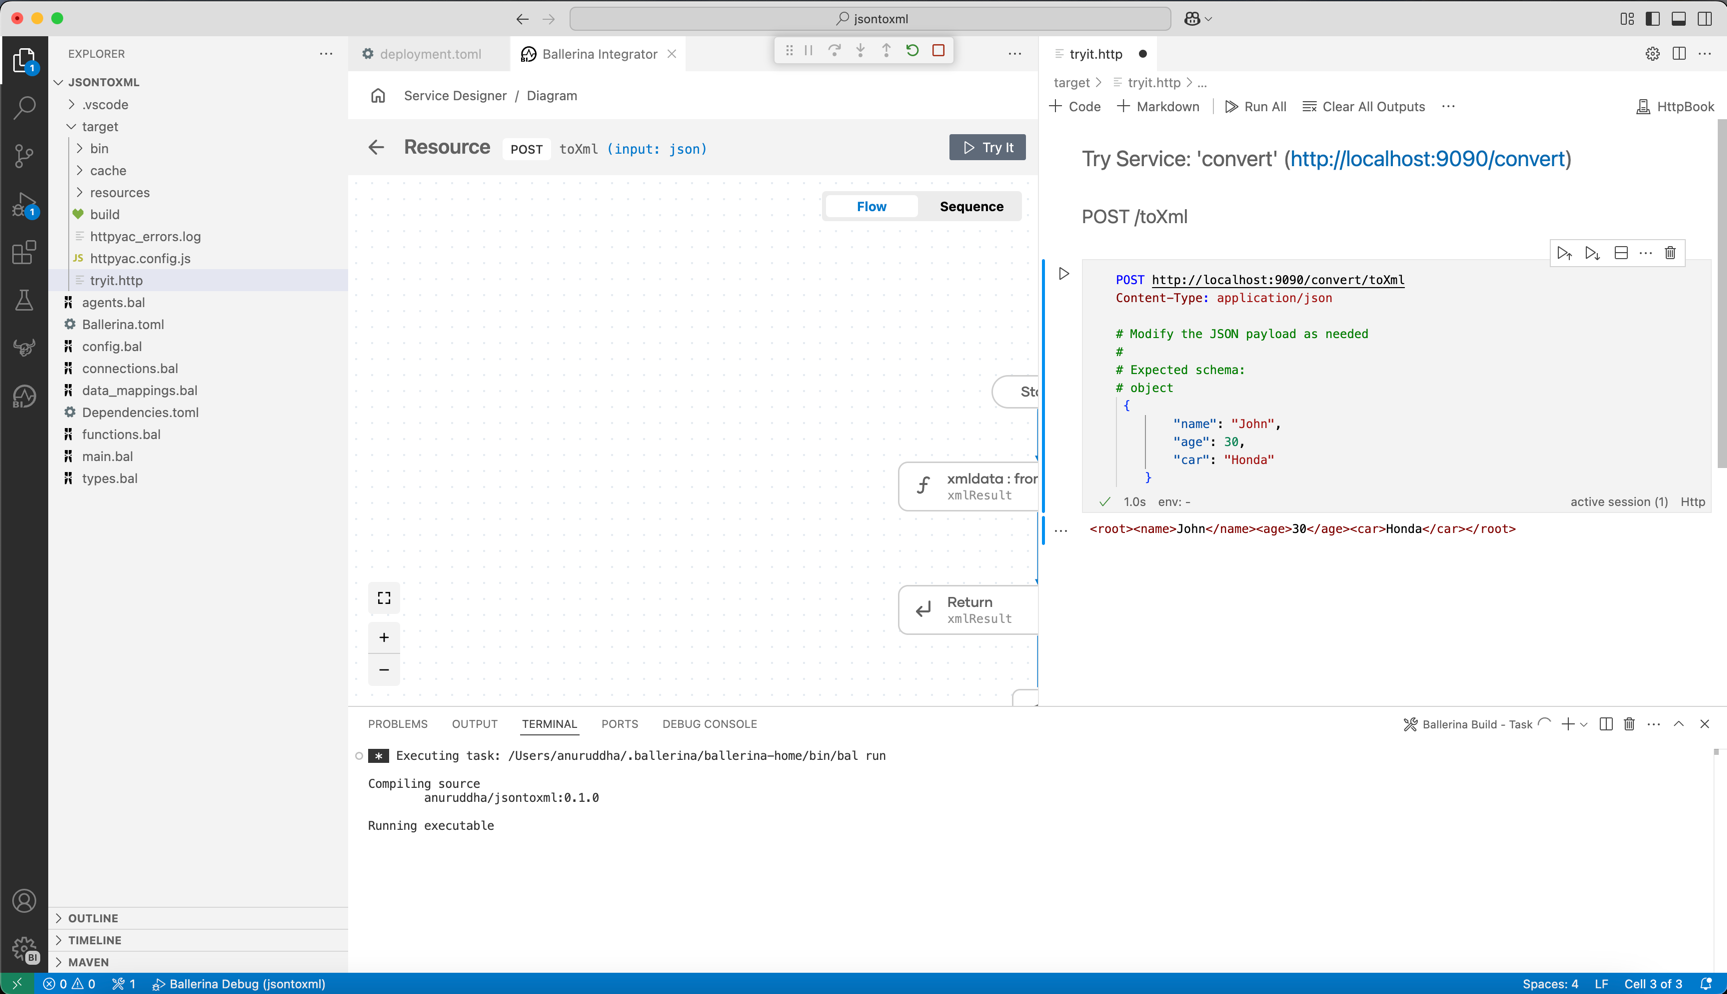
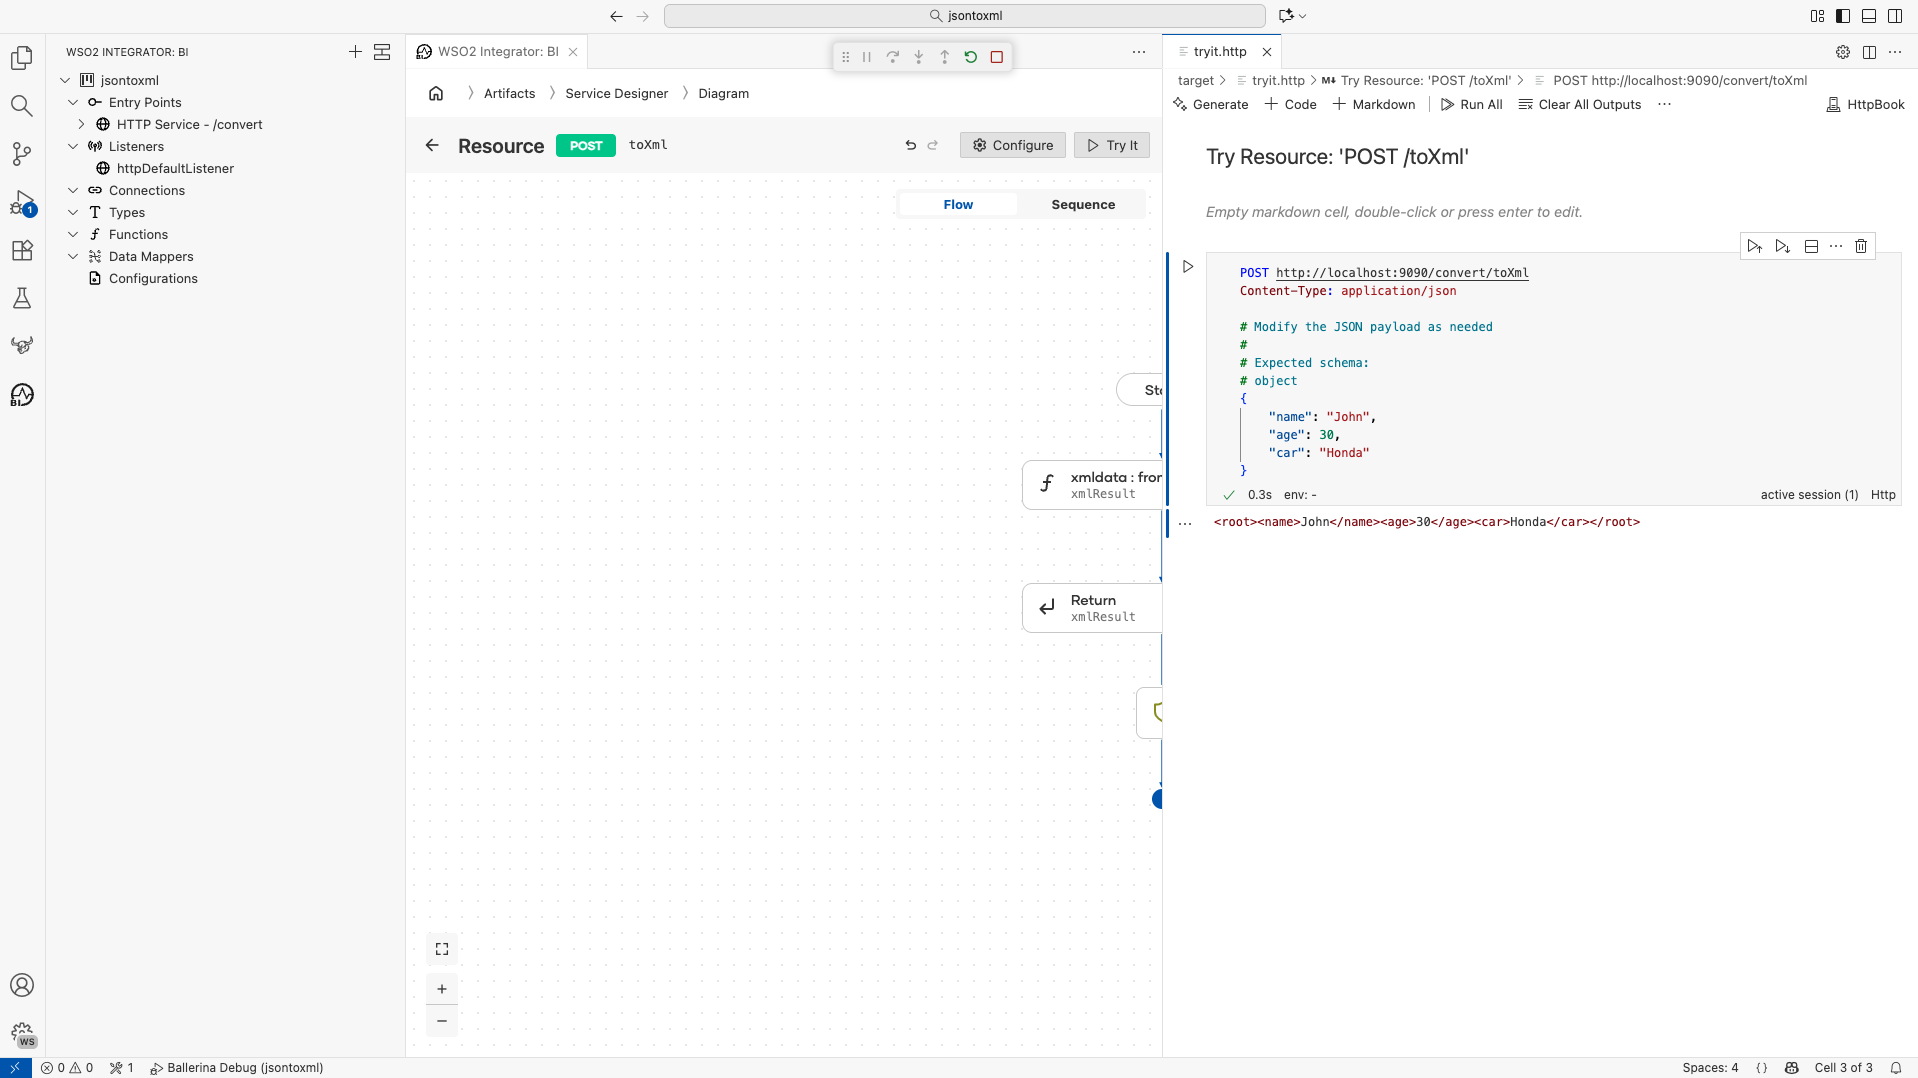
Update message transformation sample

diff --git a/en/docs/integration-guides/integration-as-api/message-transformation.md b/en/docs/integration-guides/integration-as-api/message-transformation.md
@@ -1,19 +1,22 @@
 # Message Transformation
 
 ## Overview
-This guide explains how to create a simple integration to convert a JSON payload to an XML payload using WSO2 Integrator: BI. An HTTP service with a single resource (`toXml`) will be created to accept a JSON payload and return the XML representation of the payload.
+This guide explains how to create a simple integration to convert a JSON payload to an XML payload using WSO2 Integrator: BI. 
+An HTTP service with a single resource (`toXml`) will be created to accept a JSON payload and return the XML representation of the payload.
 
-<a href="{{base_path}}/assets/img/integration-guides/integration-as-api/message-transformation/introduction.png"><img src="{{base_path}}/assets/img/integration-guides/integration-as-api/message-transformation/introduction.png" alt="JSON to XML" width="70%"></a>
+<a href="{{base_path}}/assets/img/integration-guides/integration-as-api/message-transformation/introduction.png">
+<img src="{{base_path}}/assets/img/integration-guides/integration-as-api/message-transformation/introduction.png" alt="JSON to XML" width="70%"></a>
 
 ## Step 1: Create a new integration project
 
 1. Click on the **BI** icon on the sidebar.
-2. Click on the **Create Integration** button.
-3. Enter the project name as `JsonToXml`.
+2. Click on the **Create New Integration** button.
+3. Enter the integration name as `JsonToXml`.
 4. Select project directory location by clicking on the **Select Location** button.
 5. Click on the **Create Integration** button to create the integration project.
 
-    <a href="{{base_path}}/assets/img/integration-guides/integration-as-api/message-transformation/create-integration.gif"><img src="{{base_path}}/assets/img/integration-guides/integration-as-api/message-transformation/create-integration.gif" alt="Create Integration" width="70%"></a>
+    <a href="{{base_path}}/assets/img/integration-guides/integration-as-api/message-transformation/create-integration.gif">
+    <img src="{{base_path}}/assets/img/integration-guides/integration-as-api/message-transformation/create-integration.gif" alt="Create Integration" width="70%"></a>
 
 
 ## Step 2: Create a HTTP service
@@ -21,24 +24,24 @@ This guide explains how to create a simple integration to convert a JSON payload
 1. In the design view, click on the **Add Artifact** button.
 2. Select **HTTP Service** under the **Integration as API** category.
 3. Select the **Create and use the default HTTP listener** option from the **Listener** dropdown.
-4. Select **Design from Scratch** option as the **The contract of the service**.
+4. Select **Design from Scratch** option as the **Service Contract**.
 5. Specify the **Service base path** as `/convert`.
-6. Click on the **Create** button to create the new service with the specified configurations.
+6. Click on the **Save** button to create the new service with the specified configurations.
 
-## Step 3: Update the resource method
+    <a href="{{base_path}}/assets/img/integration-guides/integration-as-api/message-transformation/create-service.gif">
+    <img src="{{base_path}}/assets/img/integration-guides/integration-as-api/message-transformation/create-service.gif" alt="Create Integration" width="70%"></a>
 
-1. The service will have a default resource named `greeting` with the **GET** method. Click on three dots appear in front of the `/convert` service resource and select **Edit** from menu.
-2. Then click the edit button in front of `/greeting` resource.  
+## Step 3: Add the resource method
 
-    <a href="{{base_path}}/assets/img/integration-guides/integration-as-api/message-transformation/edit-resource.gif"><img src="{{base_path}}/assets/img/integration-guides/integration-as-api/message-transformation/edit-resource.gif" alt="Edit Resource" width="70%"></a>
+1. Click the **Add Resource** button.
+2. Select the **POST** method from the right side panel. 
+3. Enter the resource path as `toXml`.
+4. Click on the **Define Payload** action and select **Continue with JSON Type**.
+5. Change the 201 response return type to `xml` and **Save** response.
+6. Click on the **Save** button with the specified configurations.
 
-3. Change the resource HTTP method to **POST**.
-4. Change the resource name as `toXml`.
-5. Add a payload parameter named `input` to the resource of type `json`. 
-6. Change the 201 response return type to `xml`.
-7. Click on the **Save** button to update the resource with the specified configurations.
-
-    <a href="{{base_path}}/assets/img/integration-guides/integration-as-api/message-transformation/update-resource.gif"><img src="{{base_path}}/assets/img/integration-guides/integration-as-api/message-transformation/update-resource.gif" alt="Update Resource" width="70%"></a>
+    <a href="{{base_path}}/assets/img/integration-guides/integration-as-api/message-transformation/create-resource.gif">
+    <img src="{{base_path}}/assets/img/integration-guides/integration-as-api/message-transformation/create-resource.gif" alt="Create Resource" width="70%"></a>
 
 !!! info "Resource Method"
     To learn more about resources, see [Ballerina Resources](https://ballerina.io/learn/by-example/resource-methods/).
@@ -46,19 +49,20 @@ This guide explains how to create a simple integration to convert a JSON payload
 ## Step 4: Add the transformation logic
 
 1. Click on the `toXml` resource to navigate to the resource implementation designer view.
-2. Delete the default `Return` action from the resource.
-3. Hover to the arrow after start and click the ➕ button to add a new action to the resource.
+2. Hover to the arrow after start and click the ➕ button to add a new action to the resource.
 4. Select **Function Call** from the node panel.
 5. Search for `json to xml` and select the **fromJson** function from the suggestions.
-6. Change the **Variable Name** to `xmlResult`, **Variable Type** as `xml` and **JsonValue** to `input`.
+6. Set the **JsonValue** to `payload` from inputs.
 7. Click on the **Save** button to add the function call to the resource.
 
-    <a href="{{base_path}}/assets/img/integration-guides/integration-as-api/message-transformation/add-variable.gif"><img src="{{base_path}}/assets/img/integration-guides/integration-as-api/message-transformation/add-variable.gif" alt="Add Function Call" width="70%"></a>
+    <a href="{{base_path}}/assets/img/integration-guides/integration-as-api/message-transformation/add-variable.gif">
+    <img src="{{base_path}}/assets/img/integration-guides/integration-as-api/message-transformation/add-variable.gif" alt="Add Function Call" width="70%"></a>
 
 8. Add a new node after the `fromJson` function call and select **Return** from the node panel.
 9. Select the `xmlResult` variable from the dropdown and click **Save**.
 
-    <a href="{{base_path}}/assets/img/integration-guides/integration-as-api/message-transformation/add-return.png"><img src="{{base_path}}/assets/img/integration-guides/integration-as-api/message-transformation/add-return.png" alt="Add Return" width="70%"></a>
+    <a href="{{base_path}}/assets/img/integration-guides/integration-as-api/message-transformation/add-return.gif">
+    <img src="{{base_path}}/assets/img/integration-guides/integration-as-api/message-transformation/add-return.gif" alt="Add Return" width="70%"></a>
 
 !!! info "JSON to XML Conversion"
     To learn more about json to xml conversion, see [Ballerina JSON to XML conversion](https://ballerina.io/learn/by-example/xml-from-json-conversion/).
@@ -85,7 +89,8 @@ This guide explains how to create a simple integration to convert a JSON payload
         <car>Honda</car>
     </root>
     ```
-    <a href="{{base_path}}/assets/img/integration-guides/integration-as-api/message-transformation/run-integration.png"><img src="{{base_path}}/assets/img/integration-guides/integration-as-api/message-transformation/run-integration.png" alt="Run Integration" width="70%"></a>
+    <a href="{{base_path}}/assets/img/integration-guides/integration-as-api/message-transformation/run-integration.png">
+    <img src="{{base_path}}/assets/img/integration-guides/integration-as-api/message-transformation/run-integration.png" alt="Run Integration" width="70%"></a>
 
 6. Additionally, the service can be tested using tools like [Postman](https://www.postman.com/) or [curl](https://curl.se/) by sending a POST request with a JSON payload to the service endpoint.
    ```curl
